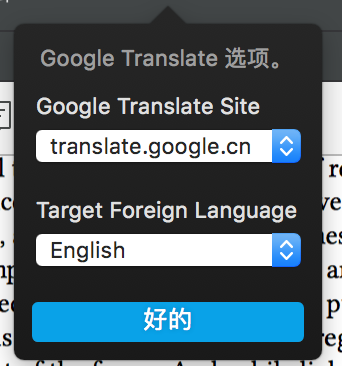
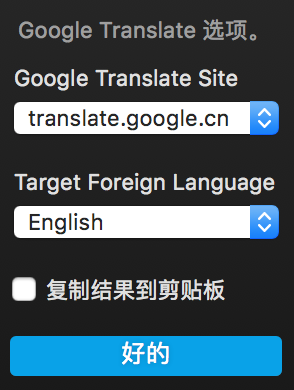
modify some info for version 1.2

diff --git a/README.md b/README.md
@@ -13,12 +13,16 @@
 
 - 使用方法:
 
-  初次使用，设置`Google Translate Site`和`Target Foreign Language`字段。
+  初次使用，设置`Google Translate Site`，`Target Foreign Language`字段，并勾选是否`复制结果到剪切板`。
 
   - `Google Translate Site`: 要使用的谷歌翻译服务器。墙内的朋友请选择`translate.google.cn`，墙外的选择`translate.google.com`
   - `Target Foreign Language`: 目标外语。程序将对划中的语言进行检测，若为中文，则翻译为选中的目标外语；若为非外语，无论什么语言，一律翻译为中文。
 
+  
+
   ![](https://github.com/wizyoung/googletranslate.popclipext/blob/master/3.png?raw=true)
+
+  - 若勾选`复制结果到剪切板`每次翻译的结果将自动复制到剪切板，默认该选项关闭。
 
 - 若要后期更改设置，点击popclip下拉列表，再点击最下面的笔标记，会看到`Google Translate`插件右边有个齿轮图标，点击进去即可修改。
 
